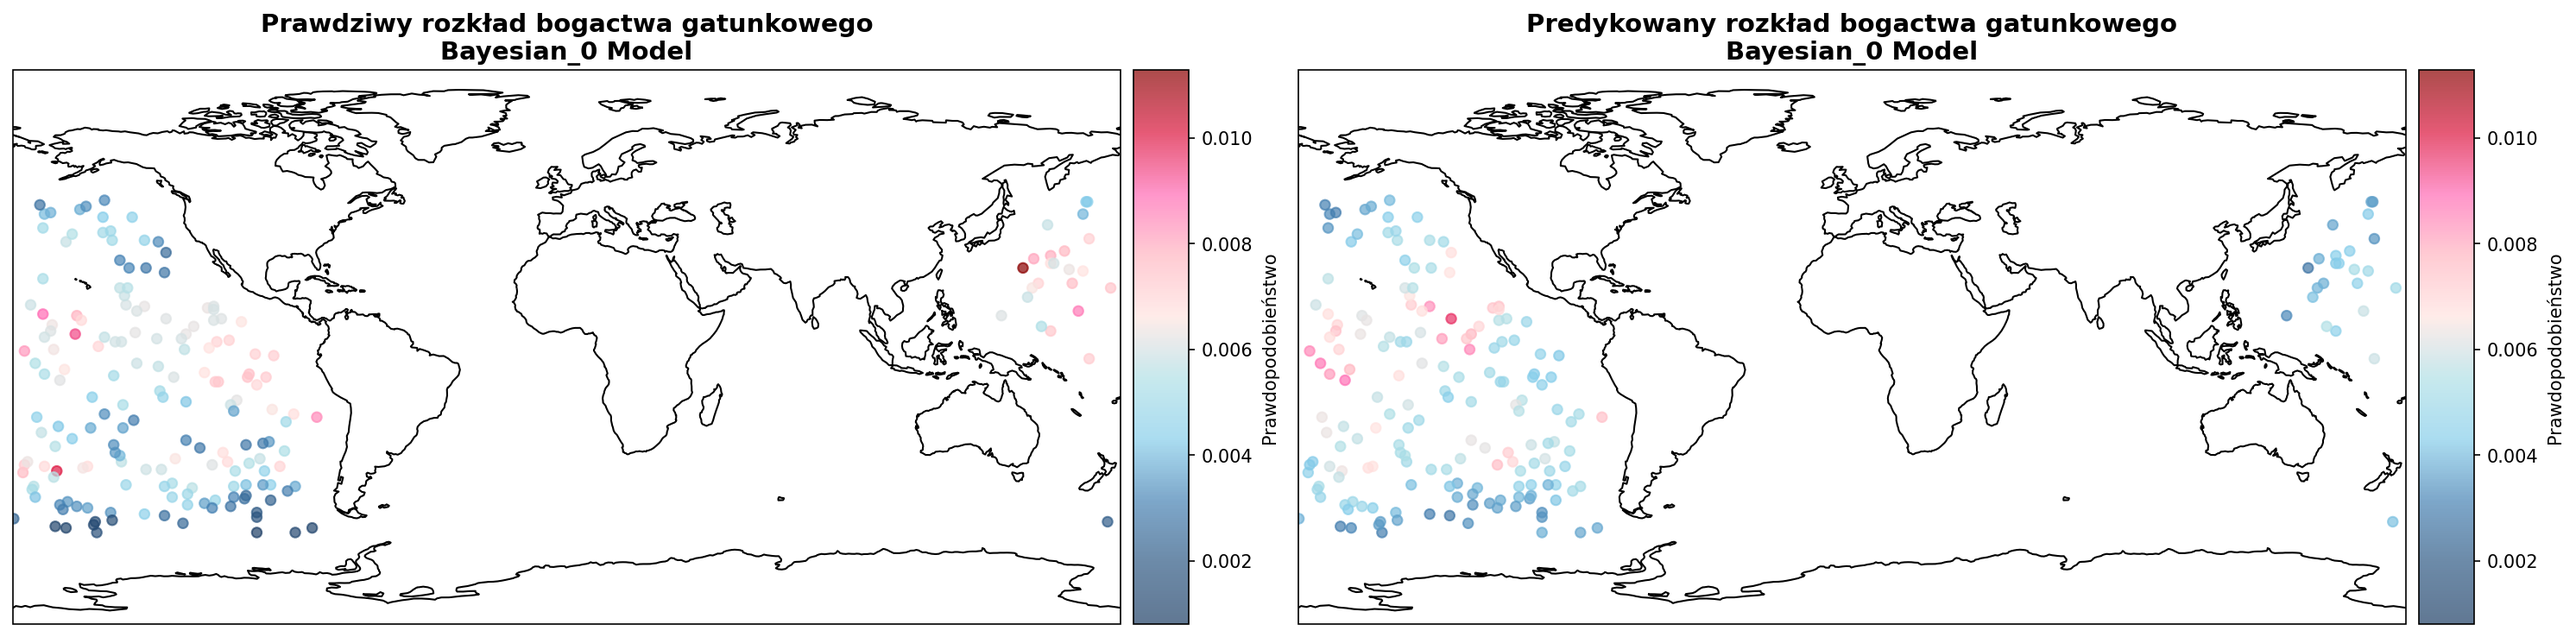
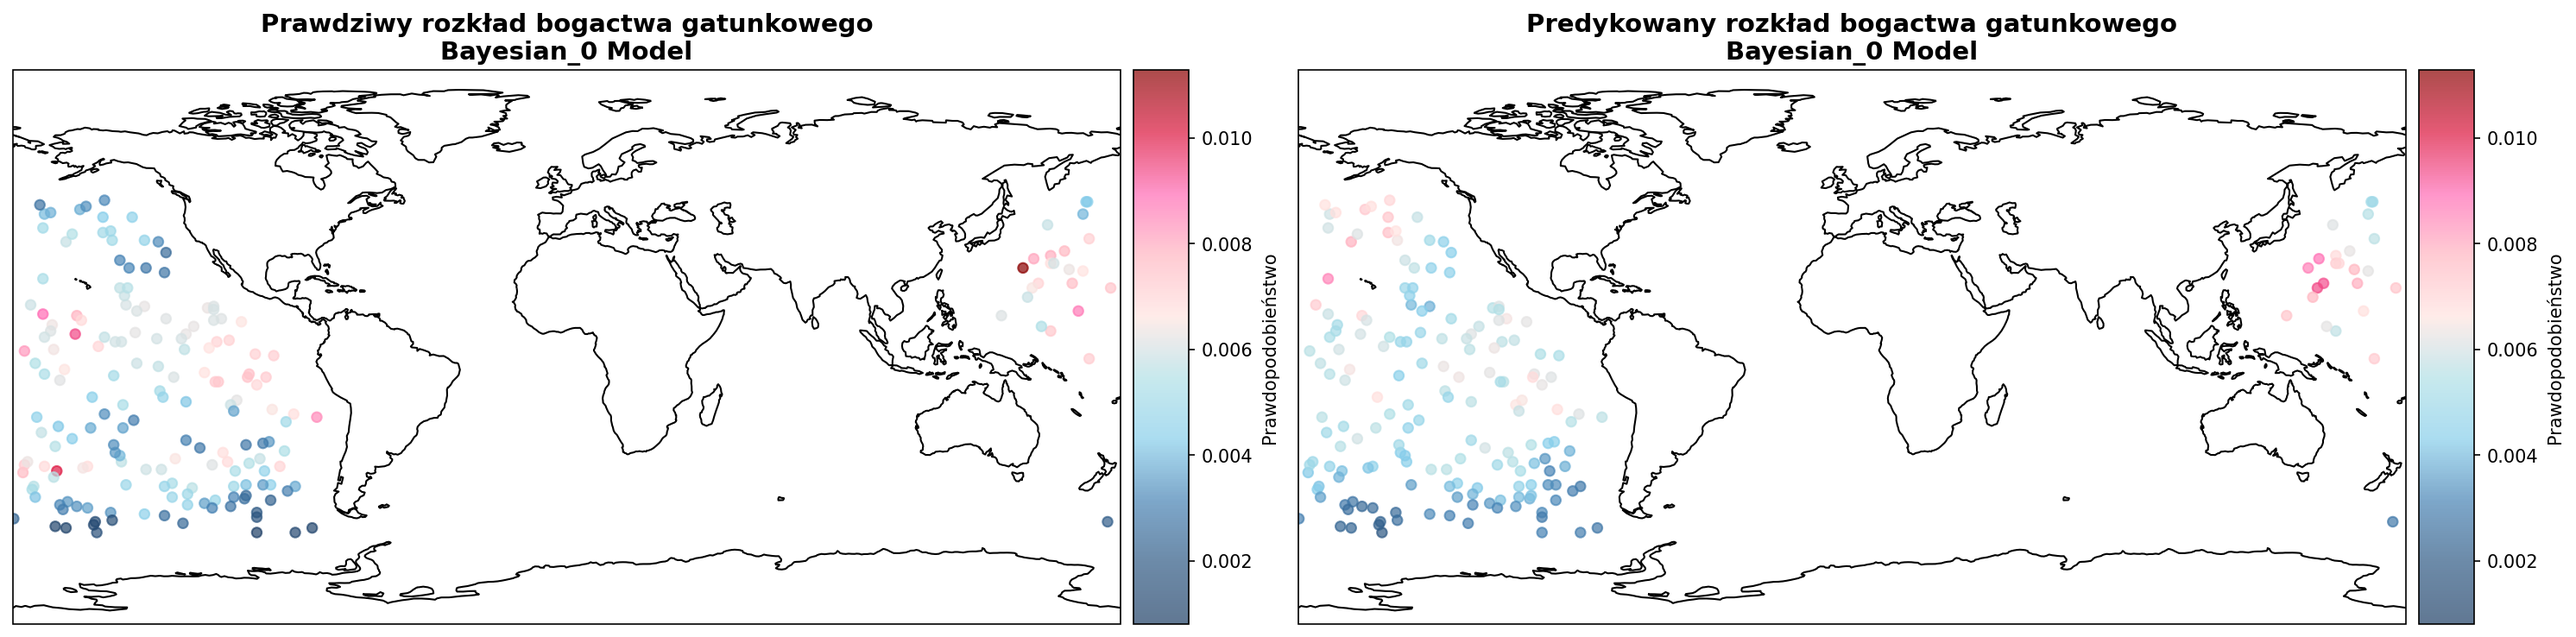
dodanie modelu Lenka

diff --git a/BayesianModelSystem/Modele/bayesian_field.py b/BayesianModelSystem/Modele/bayesian_field.py
@@ -477,3 +477,184 @@ class BayesianFieldModelCVGridSearch(BayesianFieldModel):
         
         print("\n▶ [APRIORI] Finalne przygotowanie z najlepszym 'lengthscale'...")
         super().przygotuj_apriori()
+@njit(fastmath=True)
+def z_to_x_softmax(Z):
+    """Stable softmax transformation."""
+    max_Z = np.max(Z)
+    exp_Z = np.exp(Z - max_Z)
+    sum_exp_Z = np.sum(exp_Z)
+    if sum_exp_Z == 0:
+        # Avoid division by zero, return uniform distribution
+        return np.full_like(Z, 1.0 / Z.size)
+    return exp_Z / sum_exp_Z
+
+@njit(fastmath=True)
+def log_posterior_logistic_normal_fast(Z, counts, N, K_inv, log_prior_norm_const, mu_prior):
+    """Computes the log-posterior for the Logistic-Normal model."""
+    # Log-likelihood part
+    max_Z = np.max(Z)
+    log_sum_exp_Z = max_Z + np.log(np.sum(np.exp(Z - max_Z)))
+    log_lik = np.dot(counts, Z) - N * log_sum_exp_Z
+
+    if not np.isfinite(log_lik):
+        return -np.inf
+
+    # Log-prior part
+    Z_centered = Z - mu_prior
+    mat_vec_prod = np.dot(K_inv, Z_centered)
+    quad_form = np.dot(Z_centered, mat_vec_prod)
+    log_prior = log_prior_norm_const - 0.5 * quad_form
+    
+    if not np.isfinite(log_prior):
+        return -np.inf
+        
+    return log_prior + log_lik
+
+
+class LogisticNormalMCMC:
+    """
+    Logistic-Normal model for spatial point process data, implemented
+    with an interface consistent with other models in this module.
+    """
+    def __init__(self, space_points, metric_func, observed_indices,
+                 lengthscale=1000.0, variance=1.0, distance_unit='km',
+                 mu_prior=0.0):
+        print("\n▶ [LOGISTIC-NORMAL-MCMC] Inicjalizacja modelu...")
+        self.space_points = list(space_points)
+        self.metric = metric_func
+        self.n = len(self.space_points)
+        
+        self.observed_indices = np.asarray(observed_indices)
+        self.counts = np.bincount(self.observed_indices, minlength=self.n).astype(np.float64)
+        self.N = self.counts.sum()
+
+        print(f"  - Liczba punktów: {self.n}")
+        print(f"  - Liczba obserwacji: {self.N}")
+        
+        # Hyperparameters
+        self.lengthscale = lengthscale
+        self.variance = variance
+        self.distance_unit = distance_unit
+        self.mu_prior = mu_prior
+        
+        self.K = None
+        self.K_inv = None
+        self.log_prior_norm_const = None
+        
+        self.samples_Z = None
+        self.samples_x = None
+        print("  ✔ Model gotowy.\n")
+
+    def przygotuj_apriori(self):
+        print("▶ [APRIORI] Budowa macierzy kowariancji dla procesu Gaussa...")
+        
+        dist_matrix = np.zeros((self.n, self.n))
+        for i in range(self.n):
+            for j in range(i, self.n):
+                dist = self.metric(self.space_points[i], self.space_points[j], return_unit=self.distance_unit)
+                dist_matrix[i, j] = dist
+                dist_matrix[j, i] = dist
+        
+        self.K = self.variance * np.exp(-(dist_matrix / self.lengthscale)**2)
+        self.K += 1e-8 * np.eye(self.n) # Jitter
+        
+        try:
+            L = cholesky(self.K, lower=True)
+            L_inv = solve_triangular(L, np.eye(self.n), lower=True)
+            self.K_inv = L_inv.T @ L_inv
+            logdet = 2 * np.sum(np.log(np.diag(L)))
+            self.log_prior_norm_const = -0.5 * (self.n * np.log(2 * np.pi) + logdet)
+            print("  ✔ Cholesky i prekomputacja stałych dla priora zakończona.")
+        except np.linalg.LinAlgError:
+            print("  ⚠ Błąd Cholesky, używam bezpośredniej inwersji macierzy K.")
+            self.K_inv = np.linalg.inv(self.K)
+            sign, logdet = np.linalg.slogdet(self.K)
+            if sign != 1:
+                raise ValueError("Macierz kowariancji nie jest dodatnio określona.")
+            self.log_prior_norm_const = -0.5 * (self.n * np.log(2 * np.pi) + logdet)
+
+    def przygotuj_predykcyjny(self, num_samples, burn_in, proposal_scale, seed=None):
+        print("\n" + "="*70)
+        print("▶ [MCMC] START SAMPLERA DLA MODELU LOGISTIC-NORMAL")
+        print("="*70)
+
+        if seed is not None: np.random.seed(seed)
+        
+        if self.K_inv is None:
+            raise RuntimeError("Należy najpierw uruchomić 'przygotuj_apriori'.")
+
+        Z_current = np.full(self.n, self.mu_prior)
+        logpost_current = log_posterior_logistic_normal_fast(
+            Z_current, self.counts, self.N, self.K_inv, self.log_prior_norm_const, self.mu_prior
+        )
+
+        cov_prop = (proposal_scale**2) * self.K
+        try:
+            L_prop = np.linalg.cholesky(cov_prop)
+        except np.linalg.LinAlgError:
+            print("  ⚠ Macierz kowariancji propozycji nie jest dodatnio określona, używam diagonalnej.")
+            cov_prop = (proposal_scale**2) * np.eye(self.n)
+            L_prop = np.sqrt(cov_prop)
+
+        samples = []
+        total_iterations = num_samples + burn_in
+        accepted = 0
+        
+        print(f"📊 PARAMETRY MCMC:")
+        print(f"   - Całkowita liczba iteracji: {total_iterations}")
+        print(f"   - Burn-in: {burn_in}")
+        print(f"   - Próbki posteriora: {num_samples}")
+        print(f"   - Proposal scale: {proposal_scale}")
+        print(f"   - Start LP: {logpost_current:.1f}")
+        print("-" * 50)
+        print("🔄 ROZPOCZĘCIE ITERACJI MCMC...")
+
+        for i in range(total_iterations):
+            z_norm = np.random.normal(0, 1, self.n)
+            Z_prop = Z_current + L_prop @ z_norm
+
+            logpost_prop = log_posterior_logistic_normal_fast(
+                Z_prop, self.counts, self.N, self.K_inv, self.log_prior_norm_const, self.mu_prior
+            )
+
+            accept = False
+            if np.isfinite(logpost_prop):
+                log_alpha = logpost_prop - logpost_current
+                if log_alpha >= 0 or np.log(np.random.uniform()) < log_alpha:
+                    accept = True
+            
+            if accept:
+                Z_current = Z_prop
+                logpost_current = logpost_prop
+                if i >= burn_in: accepted += 1
+        
+            if i >= burn_in:
+                samples.append(Z_current.copy())
+            
+            if i % 500 == 0 or i == total_iterations - 1:
+                status = "BURN-IN" if i < burn_in else "SAMPLING"
+                acc_rate_display = accepted / max(1, i - burn_in + 1)
+                print(f"   🔸 Iter {i:5d}/{total_iterations} [{status:8s}] | "
+                      f"LP={logpost_current:8.1f} | AccRate={acc_rate_display:.3f}")
+        
+        self.samples_Z = np.array(samples)
+        if len(self.samples_Z) > 0:
+            self.samples_x = np.array([z_to_x_softmax(z_sample) for z_sample in self.samples_Z])
+        else:
+            self.samples_x = np.array([])
+        
+        final_acc_rate = accepted / max(1, num_samples)
+        print("\n" + "="*70)
+        print("✅ MCMC ZAKOŃCZONE - PODSUMOWANIE")
+        print(f"   ✔ Akceptacje (sampling): {accepted}/{num_samples} ({final_acc_rate:.4f})")
+        print("="*70 + "\n")
+
+    def posterior_mean(self):
+        if self.samples_x is None or len(self.samples_x) == 0:
+            raise ValueError("Brak próbek posteriora. Uruchom 'przygotuj_predykcyjny'.")
+        return np.mean(self.samples_x, axis=0)
+    
+    def posterior_quantiles(self, q=(0.025, 0.975)):
+        if self.samples_x is None or len(self.samples_x) == 0:
+            raise ValueError("Brak próbek posteriora. Uruchom 'przygotuj_predykcyjny'.")
+        return np.quantile(self.samples_x, q, axis=0)

diff --git a/BayesianModelSystem/TestMenager/test_manager.py b/BayesianModelSystem/TestMenager/test_manager.py
@@ -12,19 +12,13 @@ from ..Wczytywanie_danych.loaders import losuj_obserwacje
 from ..Wyniki.results_db import ResultsDatabase
 
 from ..Modele import (
-
     BayesianFieldModel, 
-
     BayesianFieldModelAdaptiveSearchBinary,
-
     BayesianFieldModelCVGridSearch,
-
+    LogisticNormalMCMC,
     DirichletModel, 
-
     BayesianGaussianProcess, 
-
     BayesianSpatialSmoothing
-
 )
 
 from ..Pomocnicze.metrics import oblicz_metryki
@@ -169,6 +163,24 @@ class TestManager:
                             'cv_mcmc_burn': model_params.get('cv_mcmc_burn', 500)
                         }
                         model = BayesianFieldModelCVGridSearch(**constructor_params)
+                        model.przygotuj_apriori()
+                        model.przygotuj_predykcyjny(
+                            num_samples=model_params.get('mcmc_samples', 5000),
+                            burn_in=model_params.get('mcmc_burn', 3000),
+                            proposal_scale=model_params.get('mcmc_scale', 0.05),
+                            seed=model_params.get('mcmc_seed', 42) + test_number
+                        )
+                        pred = model.posterior_mean()
+                    elif model_name == 'logistic_normal_mcmc':
+                        print(f"\n--- MODEL: {model_display_name.upper()} ---")
+                        constructor_params = {
+                            'space_points': points, 'metric_func': haversine, 'observed_indices': obs_idx,
+                            'lengthscale': model_params.get('lengthscale', 1000.0),
+                            'variance': model_params.get('variance', 1.0),
+                            'distance_unit': model_params.get('distance_unit', 'km'),
+                            'mu_prior': model_params.get('mu_prior', 0.0)
+                        }
+                        model = LogisticNormalMCMC(**constructor_params)
                         model.przygotuj_apriori()
                         model.przygotuj_predykcyjny(
                             num_samples=model_params.get('mcmc_samples', 5000),
@@ -563,7 +575,8 @@ class TestManager:
                      fontsize=16, fontweight='bold')
         
         model_colors = {'bayesian': 'b', 'dirichlet': 'r', 
-                       'gaussian': 'g', 'spatial': 'm', 'bayesian_gridsearch': 'c', 'bayesian_adaptive_search_binary': 'y'}
+                       'gaussian': 'g', 'spatial': 'm', 'bayesian_gridsearch': 'c',
+                        'bayesian_adaptive_search_binary': 'y', 'logistic_normal_mcmc': 'purple'}
         
         ax = axes[0, 0]
         mse_plotted = False

diff --git a/BayesianModelSystem/Modele/__init__.py b/BayesianModelSystem/Modele/__init__.py
@@ -1,5 +1,5 @@
 """Module for all models."""
-from .bayesian_field import BayesianFieldModel, BayesianFieldModelAdaptiveSearchBinary, BayesianFieldModelCVGridSearch
+from .bayesian_field import BayesianFieldModel, BayesianFieldModelAdaptiveSearchBinary, BayesianFieldModelCVGridSearch, LogisticNormalMCMC
 from .dirichlet_model import DirichletModel
 from .gaussian_process import BayesianGaussianProcess
 from .spatial_smoothing import BayesianSpatialSmoothing
@@ -8,6 +8,7 @@ __all__ = [
     "BayesianFieldModel",
     "BayesianFieldModelAdaptiveSearchBinary",
     "BayesianFieldModelCVGridSearch",
+    "LogisticNormalMCMC",
     "DirichletModel",
     "BayesianGaussianProcess",
     "BayesianSpatialSmoothing"

diff --git a/BayesianModelSystem/config/default_params.py b/BayesianModelSystem/config/default_params.py
@@ -56,6 +56,15 @@ def get_configuration():
                 'mcmc_scale': 0.05,
                 'mcmc_seed': 42
             }),
+            ('logistic_normal_mcmc', {
+                'lengthscale': 5000,
+                'variance': 1.0,
+                'distance_unit': "km",
+                'mcmc_samples': 5000,
+                'mcmc_burn': 3000,
+                'mcmc_scale': 0.05,
+                'mcmc_seed': 42
+            }),
             ('dirichlet', {}),
             ('spatial', {'smoothing_factor': 0.1})
         ],
